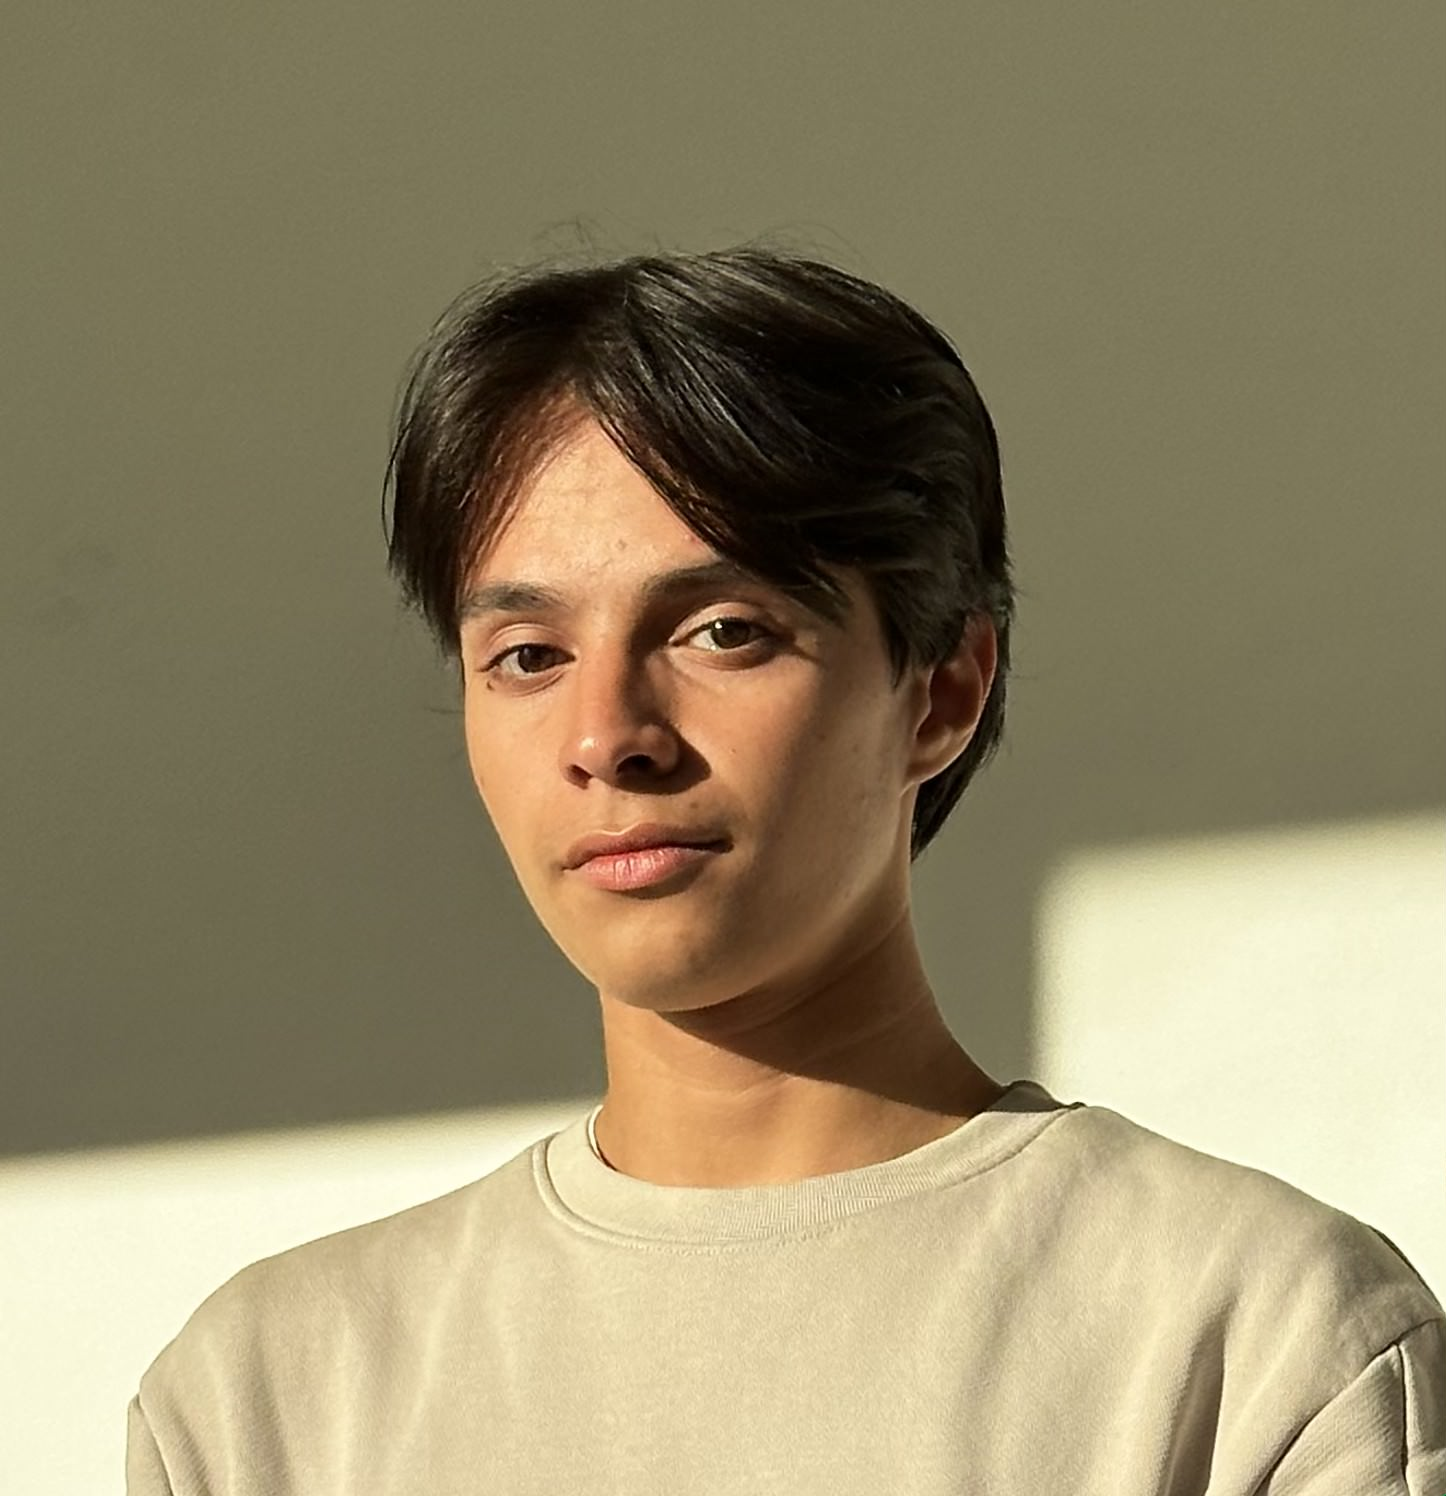
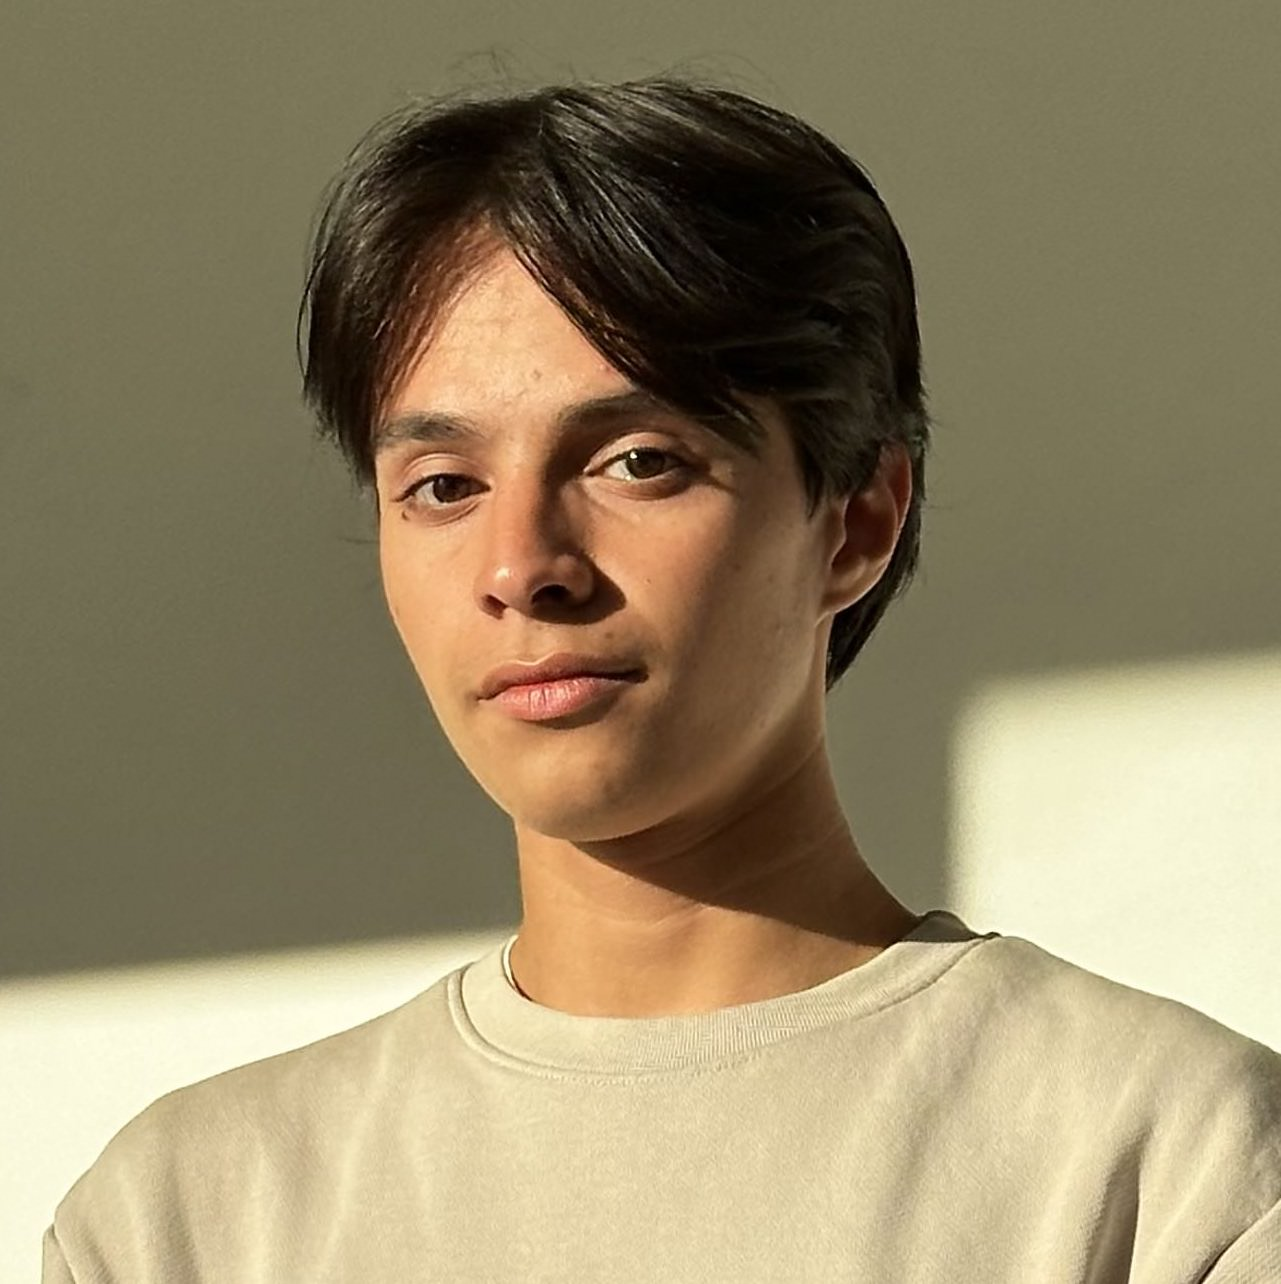
2nd batch of council profile pictures & image formatting issues

Changed region(s): [[0.0, 0.0623, 1.0, 1.0]]

diff --git a/client/src/pages/Council.js b/client/src/pages/Council.js
@@ -10,6 +10,11 @@ import siliscy from "./pictures/siliscy.jpg";
 import sung from "./pictures/sung.jpeg";
 import yvonne from "./pictures/yvonne.jpg";
 import dawei from "./pictures/dawei.jpg";
+import sam from "./pictures/sam.png";
+import dean from "./pictures/dean.jpeg";
+import noah from "./pictures/noah.JPG";
+import catherine from "./pictures/catherine.jpg";
+
 
 const Council = () => {
     return (
@@ -29,7 +34,7 @@ const Council = () => {
                     </div>
                     <div id="card" className="flex flex-col items-center">
                         <div className="h-52 w-52 bg-background rounded-full p-3 my-3">
-                            <img src={profile} alt="SAMANTHA KELLY CHOW" className="rounded-full object-cover"/>
+                            <img src={sam} alt="SAMANTHA KELLY CHOW" className="rounded-full object-cover"/>
                         </div>
                         <h3 id="name" className="mt-1">SAMANTHA KELLY CHOW</h3>
                         <h4 id="position" className="mt-1">VICE PRESIDENT FINANCE</h4>
@@ -54,7 +59,7 @@ const Council = () => {
                 <div className="flex flex-row flex-wrap w-full text-center">
                     <div id="card" className="flex flex-col items-center">
                         <div className="h-52 w-52 bg-background rounded-full p-3 my-3">
-                            <img src={profile} alt="DEAN CHEN" className="rounded-full object-cover"/>
+                            <img src={dean} alt="DEAN CHEN" className="rounded-full object-cover"/>
                         </div>
                         <h3 id="name" className="mt-1">DEAN CHEN</h3>
                         <h4 id="position" className="mt-1">FIRST YEAR REPRESENTATIVE</h4>
@@ -128,7 +133,7 @@ const Council = () => {
                     </div>
                     <div id="card" className="flex flex-col items-center">
                         <div className="h-52 w-52 bg-background rounded-full p-3 my-3">
-                            <img src={profile} alt="NOAH BOCHSLER" className="rounded-full object-cover"/>
+                            <img src={noah} alt="NOAH BOCHSLER" className="rounded-full object-cover"/>
                         </div>
                         <h3 id="name" className="mt-1">NOAH BOCHSLER</h3>
                         <h4 id="position" className="mt-1">ATHLETICS COMMISSIONER</h4>
@@ -170,7 +175,7 @@ const Council = () => {
                     </div>
                     <div id="card" className="flex flex-col items-center">
                         <div className="h-52 w-52 bg-background rounded-full p-3 my-3">
-                            <img src={profile} alt="CATHERINE WANG" className="rounded-full object-cover"/>
+                            <img src={catherine} alt="CATHERINE WANG" className="rounded-full object-cover"/>
                         </div>
                         <h3 id="name" className="mt-1">CATHERINE WANG</h3>
                         <h4 id="position" className="mt-1">SOCIAL COMMISSIONER</h4>
